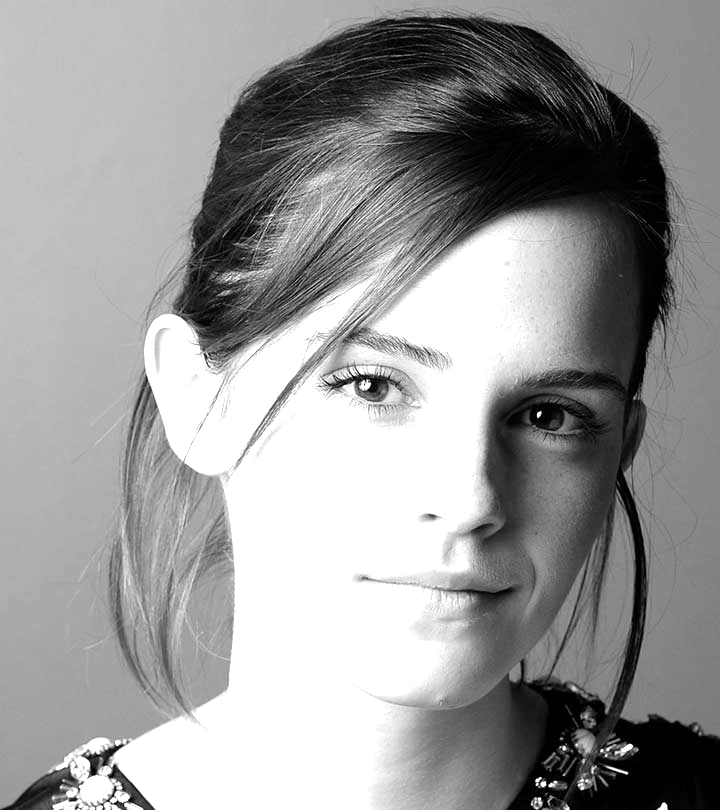
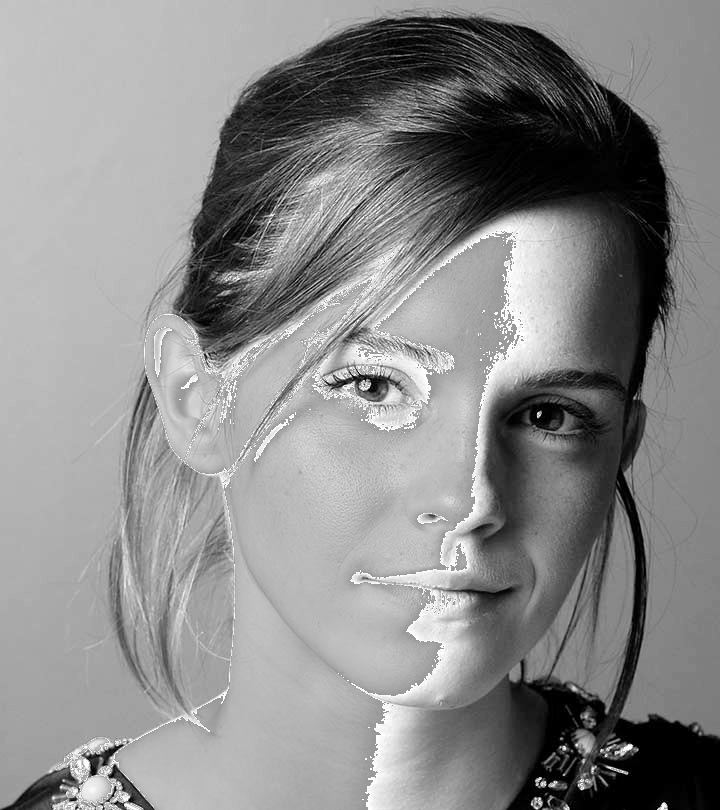
fix: implement piecewise intensity transform with discontinuity at 150

Changed region(s): [[0.0611, 0.2778, 0.7333, 1.0]]

diff --git a/q2_brain_window.py b/q2_brain_window.py
@@ -4,75 +4,74 @@ import numpy as np
 from PIL import Image
 import matplotlib.pyplot as plt
 
-def window_lut(low, high):
-    if high <= low:
-        high = low + 1
-    x = np.arange(256, dtype=np.float32)
-    y = (x - low) * (255.0 / (high - low))
-    y = np.clip(y, 0, 255)
-    return y.astype(np.uint8)
 
-def apply_lut(img_gray, lut):
-    return lut[img_gray]
+def build_lut(xs, ys):
+    xs = np.asarray(xs, dtype=np.float32)
+    ys = np.asarray(ys, dtype=np.float32)
+    xall = np.arange(256, dtype=np.float32)
+    yall = np.interp(xall, xs, ys)
+    return np.clip(yall, 0, 255).astype(np.uint8)
 
-def save_image(a, path):
-    path.parent.mkdir(parents=True, exist_ok=True)
-    Image.fromarray(a).save(path)
-    print("Saved:", path)
 
-def save_curve(lut, title, path):
+def apply_lut(img_u8, lut):
+    return lut[img_u8]
+
+
+def save_curve(lut, out_path, title):
+    x = np.arange(256, dtype=np.uint8)
     plt.figure()
-    plt.plot(np.arange(256), lut)
-    plt.xlabel("Input")
-    plt.ylabel("Output")
+    plt.plot(x, lut, linewidth=2)
     plt.title(title)
+    plt.xlabel("Input intensity")
+    plt.ylabel("Output intensity")
+    plt.grid(True, alpha=0.3)
+    out_path.parent.mkdir(parents=True, exist_ok=True)
     plt.tight_layout()
-    path.parent.mkdir(parents=True, exist_ok=True)
-    plt.savefig(path)
+    plt.savefig(out_path, dpi=150)
     plt.close()
-    print("Saved:", path)
 
-def save_histogram(img_gray, path):
-    plt.figure()
-    plt.hist(img_gray.ravel(), bins=256, range=(0, 255))
-    plt.xlabel("Intensity")
-    plt.ylabel("Count")
-    plt.title("Histogram")
-    plt.tight_layout()
-    path.parent.mkdir(parents=True, exist_ok=True)
-    plt.savefig(path)
-    plt.close()
-    print("Saved:", path)
 
 def main():
-    p = argparse.ArgumentParser(description="Windowing (WM/GM) with plots")
-    p.add_argument("--input", default="assets/brain.png")
-    p.add_argument("--outdir", default="outputs")
-    p.add_argument("--wm", nargs=2, type=float, metavar=("LOW", "HIGH"))
-    p.add_argument("--gm", nargs=2, type=float, metavar=("LOW", "HIGH"))
-    args = p.parse_args()
+    parser = argparse.ArgumentParser()
+    parser.add_argument("--input", default=None)
+    parser.add_argument("--outdir", default=None)
+    args = parser.parse_args()
 
-    img = Image.open(args.input).convert("L")
-    I = np.array(img, dtype=np.uint8)
+    script_dir = Path(__file__).resolve().parent
+    in_path = Path(args.input) if args.input else (
+        script_dir / "assets" / "brain.png")
+    out_dir = Path(args.outdir) if args.outdir else (
+        script_dir / "outputs" / "q2")
+    out_dir.mkdir(parents=True, exist_ok=True)
 
-    outdir = Path(args.outdir)
+    # Load as grayscale
+    img = Image.open(in_path).convert("L")
+    arr = np.array(img, dtype=np.uint8)
 
-    wm_low, wm_high = (135.0, 165.0) if not args.wm else tuple(args.wm)
-    gm_low, gm_high = (170.0, 200.0) if not args.gm else tuple(args.gm)
+    # Control points chosen to boost ~[60..120] range
+    xs_wm = [0,  60, 120, 255]
+    ys_wm = [0,   0, 255, 255]
+    lut_wm = build_lut(xs_wm, ys_wm)
+    out_wm = apply_lut(arr, lut_wm)
+    Image.fromarray(out_wm).save(out_dir / "brain_white_matter.png")
+    save_curve(lut_wm, out_dir / "curve_white_matter.png",
+               "Q2 (a): Transform for White Matter")
 
-    wm_lut = window_lut(wm_low, wm_high)
-    gm_lut = window_lut(gm_low, gm_high)
+    # Control points chosen to boost ~[90..170] range
+    xs_gm = [0,  90, 170, 255]
+    ys_gm = [0,   0, 255, 255]
+    lut_gm = build_lut(xs_gm, ys_gm)
+    out_gm = apply_lut(arr, lut_gm)
+    Image.fromarray(out_gm).save(out_dir / "brain_gray_matter.png")
+    save_curve(lut_gm, out_dir / "curve_gray_matter.png",
+               "Q2 (b): Transform for Gray Matter")
 
-    wm_img = apply_lut(I, wm_lut)
-    gm_img = apply_lut(I, gm_lut)
+    print("Saved:")
+    print("  ", out_dir / "brain_white_matter.png")
+    print("  ", out_dir / "curve_white_matter.png")
+    print("  ", out_dir / "brain_gray_matter.png")
+    print("  ", out_dir / "curve_gray_matter.png")
 
-    save_image(wm_img, outdir / "q2_wm_accentuated.png")
-    save_image(gm_img, outdir / "q2_gm_accentuated.png")
-
-    save_curve(wm_lut, f"WM window ({wm_low}, {wm_high})", outdir / "q2_wm_curve.png")
-    save_curve(gm_lut, f"GM window ({gm_low}, {gm_high})", outdir / "q2_gm_curve.png")
-
-    save_histogram(I, outdir / "q2_histogram.png")
 
 if __name__ == "__main__":
     main()

diff --git a/q1_transform.py b/q1_transform.py
@@ -3,31 +3,45 @@ from pathlib import Path
 import numpy as np
 from PIL import Image
 
-def build_lut():
-    xs = np.array([0, 50, 150, 255], dtype=np.float32)
-    ys = np.array([0, 100, 255, 255], dtype=np.float32)
-    x_all = np.arange(256, dtype=np.float32)
-    y_all = np.interp(x_all, xs, ys)
-    return y_all.astype(np.uint8)
+
+def build_lut() -> np.ndarray:
+
+    x = np.arange(256, dtype=np.float32)
+    y = np.empty_like(x)
+
+    # 0..50
+    m1 = x <= 50
+    y[m1] = 2.0 * x[m1]
+
+    # 50..150  (line from 100 to 255 over 100 steps → slope 155/100 = 1.55)
+    m2 = (x > 50) & (x <= 150)
+    y[m2] = 100.0 + (155.0 / 100.0) * (x[m2] - 50.0)
+
+    # >150  (identity)
+    m3 = x > 150
+    y[m3] = x[m3]
+
+    # enforce the vertical jump at exactly 150
+    y[150] = 255.0
+
+    return np.clip(y, 0, 255).astype(np.uint8)
 
 
 def apply_transform(img_path: Path, out_path: Path):
-    # Load as grayscale to apply the intensity mapping on a single channel
+    # Load as grayscale; transform is defined on intensity
     img = Image.open(img_path).convert("L")
     arr = np.array(img, dtype=np.uint8)
 
-    # Build LUT and map each pixel intensity
     lut = build_lut()
     out = lut[arr]
 
-    # Save result
     out_path.parent.mkdir(parents=True, exist_ok=True)
     Image.fromarray(out).save(out_path)
     print("Saved:", out_path)
 
 
 def main():
-    parser = argparse.ArgumentParser()
+    parser = argparse.ArgumentParser(description="Fig. 1a intensity transform")
     parser.add_argument("--input", default="/assets/emma.jpg")
     parser.add_argument("--output", default="outputs/q1/emma-output.png")
     args = parser.parse_args()
